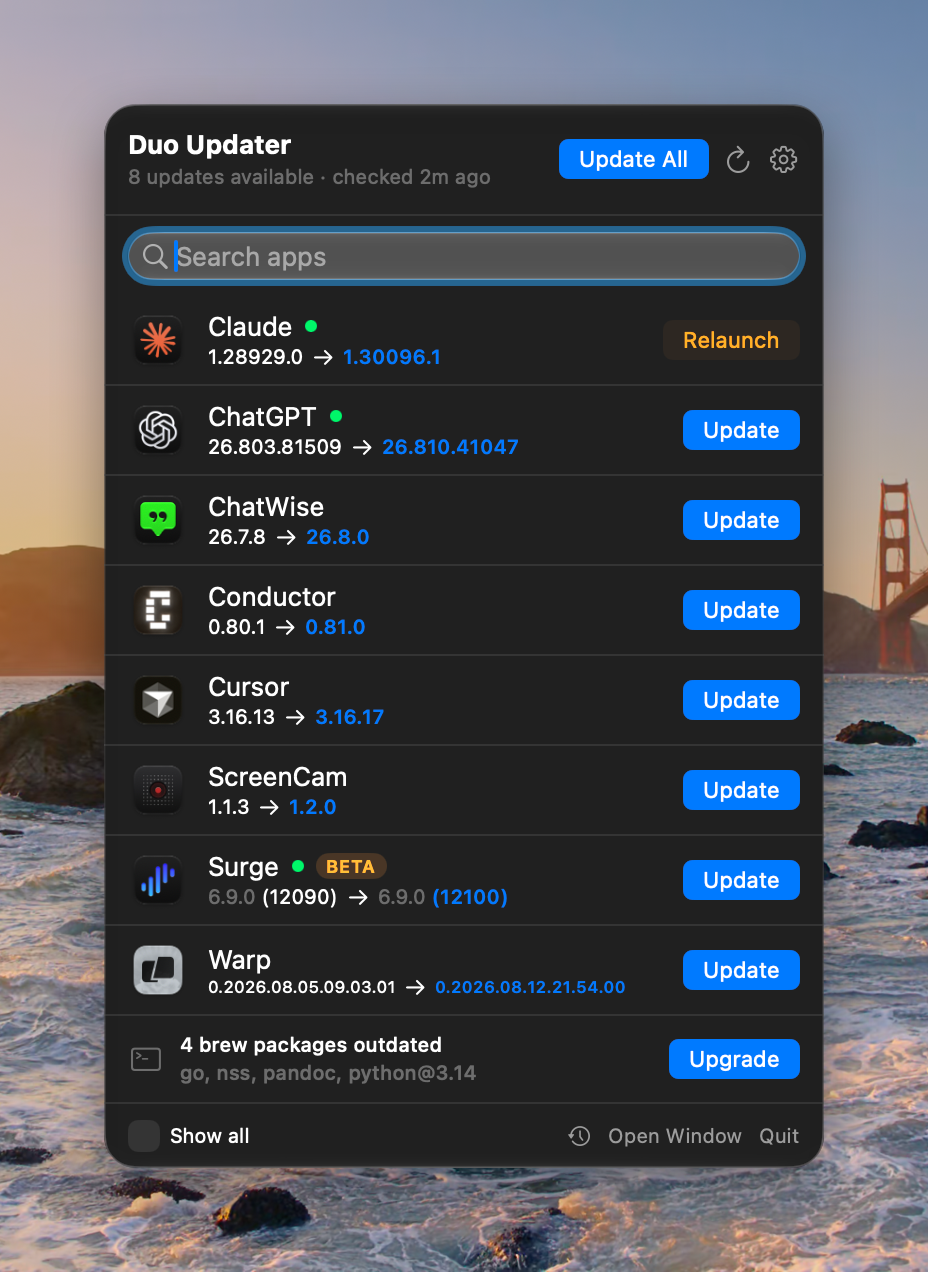
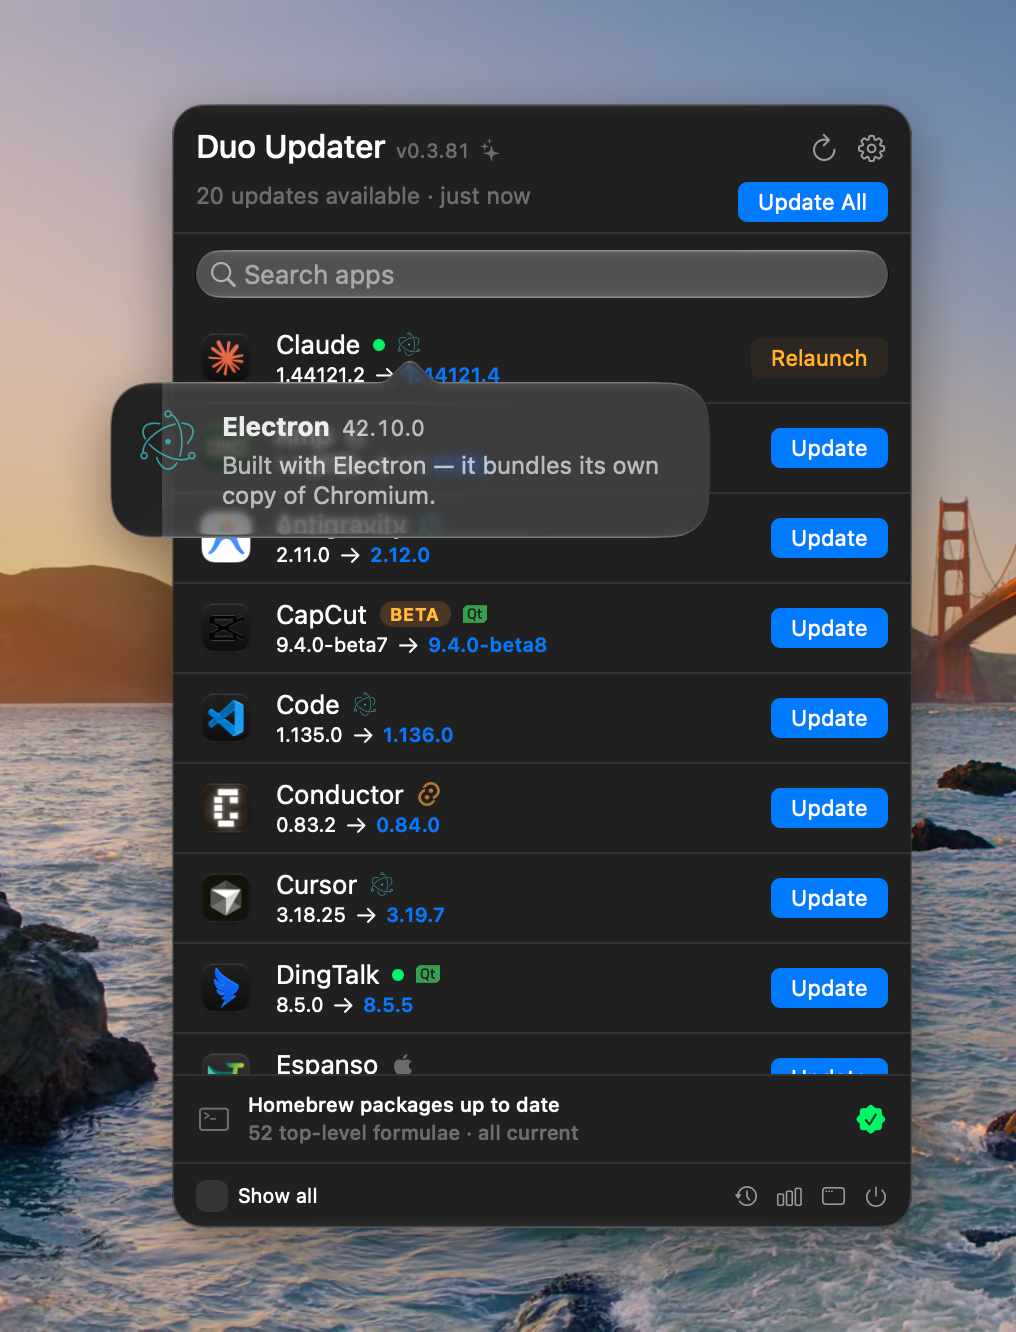
Show the runtime badges, say the app is localised, unbury docs anchors
New menu bar and settings screenshots, synced from the app repo. Both now show
the runtime badge beside each app name, so the caption explains it: what the
badge means, that hovering names the runtime and its version, and that it is
read from what the packager shipped rather than guessed from the app's name --
which is why an unlabelled row is silence, not an omission.

That caption is long enough for two paragraphs. Merging it into one would push
it past the line ceiling where text-wrap: balance stops applying, so it is
split, and figcaption paragraphs get their own spacing.

The homepage also now says the app is localised into seven languages, which it
has been for a while with nothing on the site mentioning it.

Docs headings get the same scroll-margin-top the changelog releases got: every
heading carries a rehype-slug id, so every one of them is a link target, and
each landed underneath the sticky header. The custom property is renamed to
--anchor-top, since it is no longer only about the changelog's version rail.

diff --git a/app/page.tsx b/app/page.tsx
@@ -68,18 +68,31 @@ export default async function HomePage() {
       <figure className="shot">
         <Image
           src={menuBarShot}
-          alt="The Duo Updater menu bar popover, listing apps with an update available: each row shows the installed version, the new version, and either an Update or a Relaunch button."
+          alt="The Duo Updater menu bar popover, listing apps with an update available: each row shows the installed version, the new version, a small badge for what the app is built with, and either an Update or a Relaunch button. A hover card over one row reads: Electron 42.10.0 — built with Electron, it bundles its own copy of Chromium."
           className="shot-narrow"
           sizes="(max-width: 52rem) 100vw, 420px"
           priority
         />
+        {/* Two paragraphs rather than one long caption: `text-wrap: balance`
+            stops applying past a browser-imposed line ceiling (see the rule in
+            globals.css), and a merged caption would sail past it. */}
         <figcaption>
-          Each row says what you are going from and to, and the button says what
-          will actually happen: <strong>Update</strong> installs;{" "}
-          <strong>Relaunch</strong> means it is already updated on disk and only
-          the running copy is stale. A green dot marks an app that is running, so
-          you know before you click whether something is about to be quit and
-          reopened.
+          <p>
+            Each row says what you are going from and to, and the button says what
+            will actually happen: <strong>Update</strong> installs;{" "}
+            <strong>Relaunch</strong> means it is already updated on disk and only
+            the running copy is stale. A green dot marks an app that is running, so
+            you know before you click whether something is about to be quit and
+            reopened.
+          </p>
+          <p>
+            The badge beside a name says what the app is built with — Electron, Qt,
+            Chromium, a bundled JVM, Flutter, Tauri, Catalyst, or an iPhone app
+            running on Apple Silicon — and hovering it names the runtime and its
+            version. Each one is read from something the packager actually shipped,
+            never from the app&rsquo;s name or its vendor, so a bundle that does not
+            say stays unlabelled rather than guessed at.
+          </p>
         </figcaption>
       </figure>
 
@@ -105,6 +118,13 @@ export default async function HomePage() {
             EdDSA where the app publishes a key, then a Developer ID signature,
             Team ID, bundle id and architecture that all have to match the app
             being replaced — plus a backup you can roll back to.
+          </p>
+        </div>
+        <div className="point">
+          <h3>It speaks your language</h3>
+          <p>
+            English, 简体中文, 日本語, Deutsch, Español, Français and Русский. There
+            is no language setting — it follows whatever macOS is already set to.
           </p>
         </div>
         <div className="point">
@@ -149,7 +169,7 @@ export default async function HomePage() {
       <figure className="shot">
         <Image
           src={settingsShot}
-          alt="Duo Updater's General settings: check interval, post-update behaviour including automatic restart and rollback backups, concurrency, and install routing for App Store and self-updating apps."
+          alt="Duo Updater's General settings: launch at login, check interval, whether to show what each app is built with, post-update behaviour including automatic relaunch and rollback backups, how many apps to check at once, and install routing for App Store and self-updating apps."
           className="shot-wide"
           sizes="(max-width: 52rem) 100vw, 760px"
         />

diff --git a/app/globals.css b/app/globals.css
@@ -14,10 +14,10 @@
   --measure: 34rem;
   --page: 64rem;
 
-  /* Where the changelog's sticky version rail parks, and — deliberately the
-     same number — where an anchor jump drops the release it targets. See
-     .release-version. */
-  --rail-top: 5rem;
+  /* Where an #anchor jump drops its target: far enough down that the sticky
+     header does not cover it. The changelog's version rail parks at the same
+     offset on purpose — see .release-version. */
+  --anchor-top: 5rem;
 
   --sans: ui-sans-serif, -apple-system, BlinkMacSystemFont, "Segoe UI", system-ui,
     "Helvetica Neue", Arial, "PingFang SC", "Hiragino Sans GB",
@@ -281,6 +281,24 @@ pre code {
   text-wrap: balance;
 }
 
+/* A caption long enough to need two paragraphs is also long enough to blow past
+   the balance ceiling above, so it is split rather than merged. Balance is
+   inherited, so each paragraph gets it separately. */
+.shot figcaption p {
+  margin: 0 0 0.75rem;
+}
+
+.shot figcaption p:last-child {
+  margin-bottom: 0;
+}
+
+/* rehype-slug puts an id on every heading it renders, so any of them can be
+   linked to — and without this the sticky header sits on top of whichever one
+   was jumped to, exactly as it did for changelog releases above. */
+.prose :is(h2, h3, h4)[id] {
+  scroll-margin-top: var(--anchor-top);
+}
+
 .section-title {
   font-size: 1.375rem;
   letter-spacing: -0.02em;
@@ -444,12 +462,12 @@ pre code {
   border-top: 1px solid var(--border);
   /* Without this an #anchor jump puts the article's top edge at y=0, which
      leaves the first line of the notes under the sticky header, and leaves the
-     version rail pinned at --rail-top while its notes start 2.5rem higher — the
-     two columns land on different lines. Matching --rail-top fixes both at
+     version rail pinned at --anchor-top while its notes start 2.5rem higher —
+     the two columns land on different lines. Matching --anchor-top fixes both at
      once, and does so independently of padding-block: the rail's natural
-     position becomes --rail-top + padding, so it is never pinned on arrival and
+     position becomes --anchor-top + padding, so it is never pinned on arrival and
      always sits on the first line of its own notes. */
-  scroll-margin-top: var(--rail-top);
+  scroll-margin-top: var(--anchor-top);
 }
 
 .release:first-child {
@@ -462,7 +480,7 @@ pre code {
   font-weight: 600;
   font-size: 0.9375rem;
   position: sticky;
-  top: var(--rail-top);
+  top: var(--anchor-top);
   align-self: start;
 }
 
